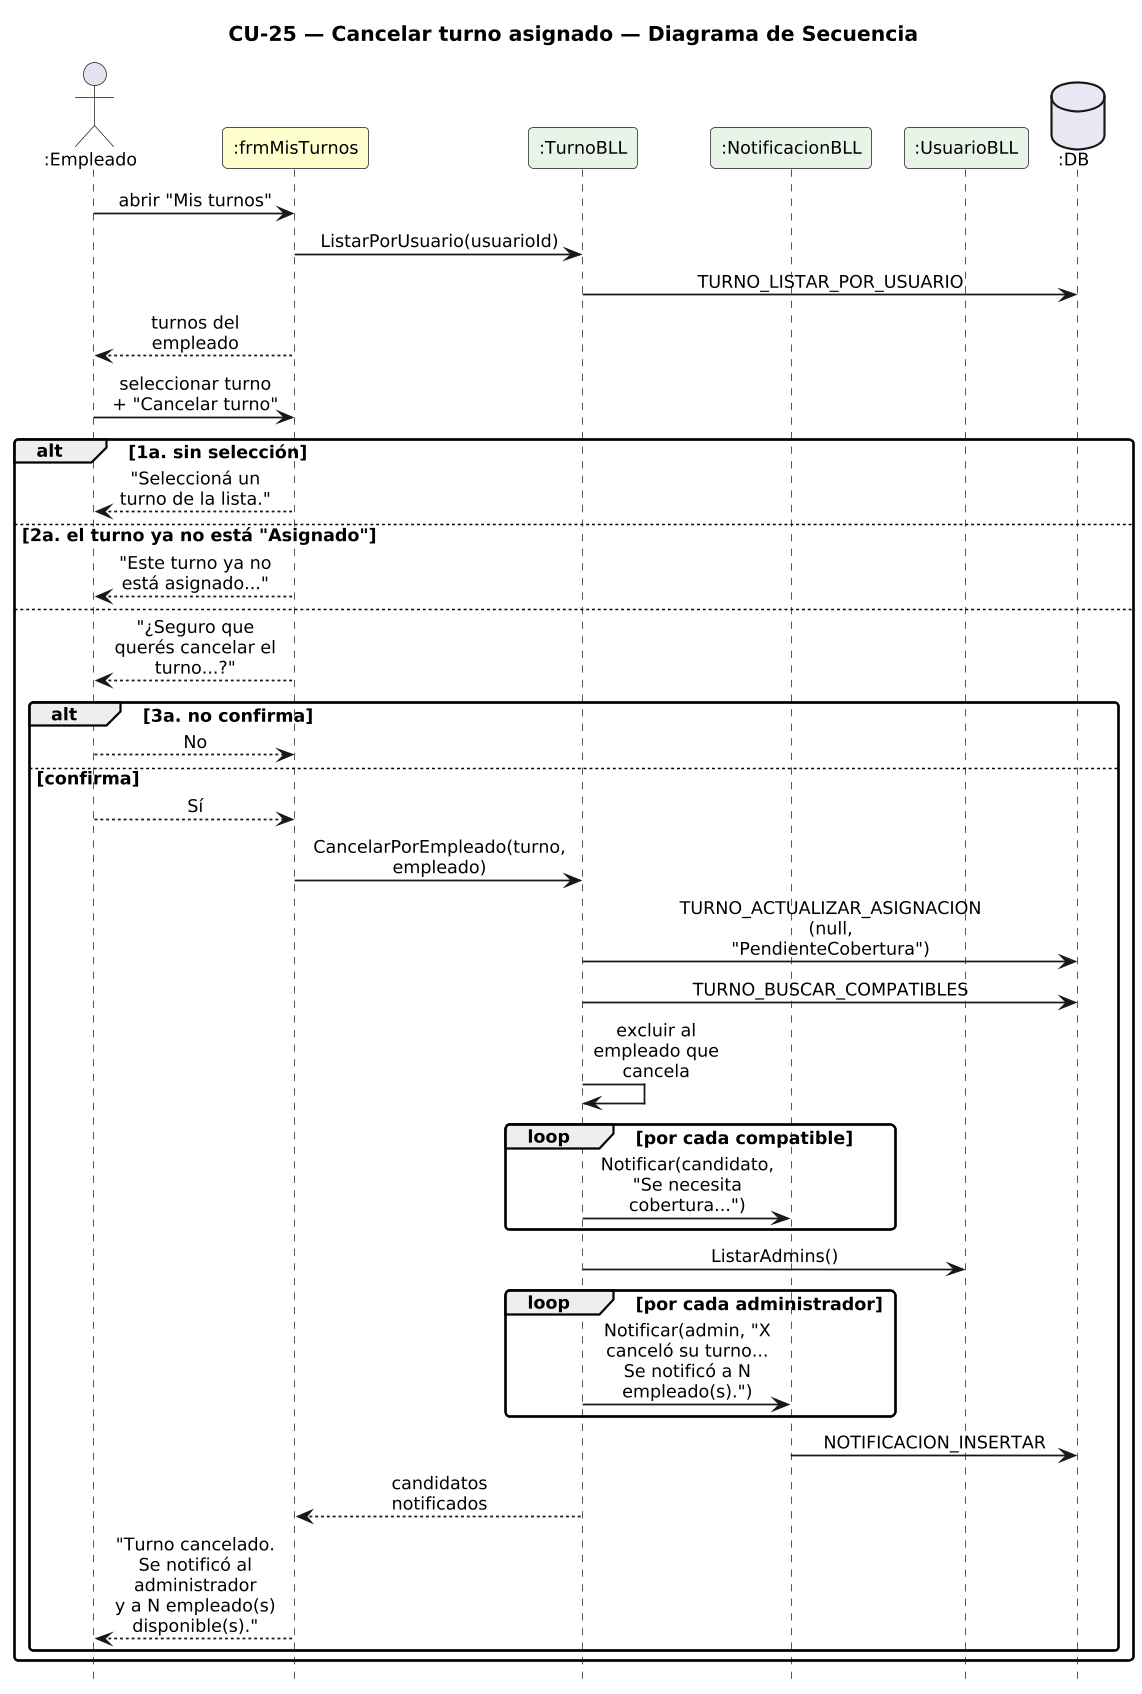
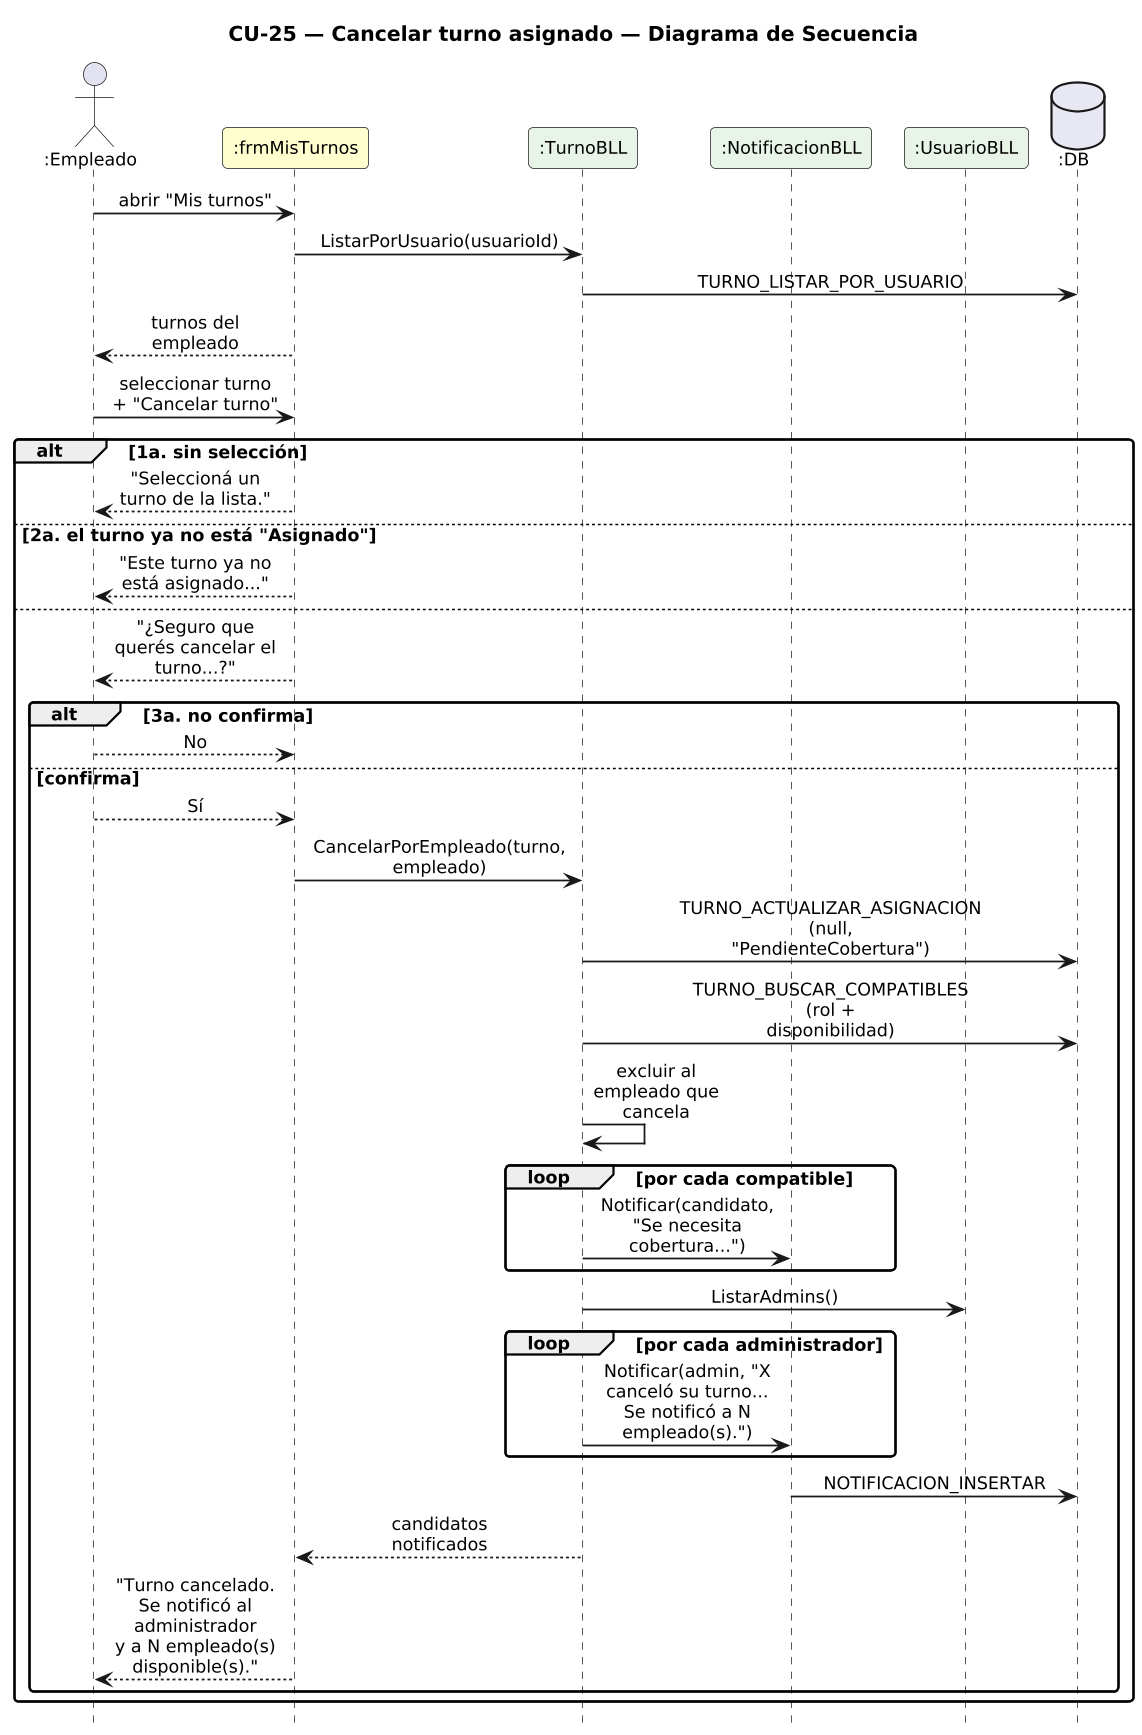
Grilla según disponibilidad, alertas sin duplicar y avisos de mantenimiento
- TURNO_BUSCAR_COMPATIBLES solo devuelve empleados que declararon
  disponibilidad para la franja en la semana de la grilla (las fechas se
  comparan por su lunes, así funciona aunque la grilla no empiece lunes).
- ALERTA_INSERTAR no crea otra alerta si el equipo ya tiene una abierta
  (Pendiente, Autorizada o Coordinada). Al cerrar un mantenimiento sin
  repuesto pendiente, la alerta pasa a "Resuelta".
- NOTIFICACION.GRILLA_ID admite NULL para avisos que no son de una grilla.
  Registrar uso de un equipo sin nivel crítico notifica a los
  administradores (una vez por día) y registrar un informe de
  mantenimiento también, como ya prometían los mensajes de pantalla.
- Diagramas de secuencia CU-21b, 23, 25, 27, 30 y 31 actualizados.

Claude-Session: https://claude.ai/code/session_01U6ipKj1ZBj4vwpEUSthucD

diff --git a/DAL/NotificacionDAL.cs b/DAL/NotificacionDAL.cs
@@ -14,7 +14,7 @@ namespace DAL
         {
             List<SqlParameter> parametros = new List<SqlParameter>
             {
-                _acceso.CrearParametro("@grilla_id", notificacion.GrillaId),
+                new SqlParameter("@grilla_id", SqlDbType.Int) { Value = (object)notificacion.GrillaId ?? DBNull.Value },
                 _acceso.CrearParametro("@usuario_id", notificacion.UsuarioId),
                 _acceso.CrearParametro("@mensaje", notificacion.Mensaje),
                 _acceso.CrearParametro("@estado", notificacion.Estado)
@@ -24,6 +24,22 @@ namespace DAL
                 _acceso.Abrir();
                 DataTable tabla = _acceso.Leer("NOTIFICACION_INSERTAR", parametros);
                 return Convert.ToInt32(tabla.Rows[0]["ID"]);
+            }
+            finally { _acceso.Cerrar(); }
+        }
+
+        public bool ExisteHoy(int usuarioId, string mensaje)
+        {
+            List<SqlParameter> parametros = new List<SqlParameter>
+            {
+                _acceso.CrearParametro("@usuario_id", usuarioId),
+                _acceso.CrearParametro("@mensaje", mensaje)
+            };
+            try
+            {
+                _acceso.Abrir();
+                DataTable tabla = _acceso.Leer("NOTIFICACION_EXISTE_HOY", parametros);
+                return Convert.ToInt32(tabla.Rows[0]["CANTIDAD"]) > 0;
             }
             finally { _acceso.Cerrar(); }
         }
@@ -44,7 +60,7 @@ namespace DAL
                     lista.Add(new BE.Notificacion
                     {
                         Id = Convert.ToInt32(fila["ID"]),
-                        GrillaId = Convert.ToInt32(fila["GRILLA_ID"]),
+                        GrillaId = fila["GRILLA_ID"] == DBNull.Value ? (int?)null : Convert.ToInt32(fila["GRILLA_ID"]),
                         UsuarioId = Convert.ToInt32(fila["USUARIO_ID"]),
                         Mensaje = fila["MENSAJE"].ToString(),
                         FechaEnvio = Convert.ToDateTime(fila["FECHA_ENVIO"]),

diff --git a/BLL/InformeMantenimientoBLL.cs b/BLL/InformeMantenimientoBLL.cs
@@ -7,6 +7,7 @@ namespace BLL
         private readonly DAL.InformeMantenimientoDAL _dal = new DAL.InformeMantenimientoDAL();
         private readonly AlertaRevisionBLL _alertaBLL = new AlertaRevisionBLL();
         private readonly EquipoBLL _equipoBLL = new EquipoBLL();
+        private readonly NotificacionBLL _notificacionBLL = new NotificacionBLL();
 
         public BE.InformeMantenimiento RegistrarInforme(BE.VisitaTecnica visita, int alertaId, string resultado, bool pendienteRepuesto)
         {
@@ -14,6 +15,13 @@ namespace BLL
 
             if (pendienteRepuesto)
                 _alertaBLL.MantenerActiva(alertaId);
+
+            BE.AlertaRevision alerta = _alertaBLL.ObtenerPorId(alertaId);
+            BE.Equipo equipo = alerta != null ? _equipoBLL.ObtenerPorId(alerta.EquipoId) : null;
+            string tecnico = SeguridadYServicios.SessionManager.getInstance().getUsuario()?.Usuario ?? "El técnico";
+            _notificacionBLL.NotificarAdministradores(
+                $"{tecnico} registró el informe de mantenimiento de '{equipo?.Nombre ?? "equipo"}'" +
+                (pendienteRepuesto ? " (falta un repuesto)" : "") + ". Está pendiente de cierre.");
 
             return _dal.Obtener(id);
         }
@@ -25,7 +33,11 @@ namespace BLL
             if (informe.PendienteRepuesto)
                 _equipoBLL.MarcarEnMantenimiento(informe.EquipoId);
             else
+            {
                 _equipoBLL.ReiniciarContador(informe.EquipoId);
+                if (informe.AlertaId > 0)
+                    _alertaBLL.MarcarResuelta(informe.AlertaId);
+            }
 
             _dal.MarcarCerrado(informe.Id);
         }

diff --git a/BLL/NotificacionBLL.cs b/BLL/NotificacionBLL.cs
@@ -6,7 +6,7 @@ namespace BLL
     {
         private readonly DAL.NotificacionDAL _dal = new DAL.NotificacionDAL();
 
-        public bool Notificar(BE.USUARIO usuario, int grillaId, string mensaje)
+        public bool Notificar(BE.USUARIO usuario, int? grillaId, string mensaje)
         {
             bool medioValido = !string.IsNullOrEmpty(usuario.Email) || !string.IsNullOrEmpty(usuario.Telefono);
 
@@ -20,6 +20,15 @@ namespace BLL
             notificacion.Id = _dal.Guardar(notificacion);
 
             return medioValido;
+        }
+
+        public void NotificarAdministradores(string mensaje, bool unaVezPorDia = false)
+        {
+            foreach (BE.USUARIO admin in new UsuarioBLL().ListarAdmins())
+            {
+                if (unaVezPorDia && _dal.ExisteHoy(admin.Id, mensaje)) continue;
+                Notificar(admin, null, mensaje);
+            }
         }
 
         public List<BE.Notificacion> ListarPorUsuario(BE.USUARIO usuario) => _dal.ListarPorUsuario(usuario.Id);

diff --git a/BLL/EquipoBLL.cs b/BLL/EquipoBLL.cs
@@ -7,6 +7,7 @@ namespace BLL
     {
         private readonly DAL.EquipoDAL _dal = new DAL.EquipoDAL();
         private readonly AlertaRevisionBLL _alertaBLL = new AlertaRevisionBLL();
+        private readonly NotificacionBLL _notificacionBLL = new NotificacionBLL();
 
         public BE.Equipo ObtenerPorId(int id) => _dal.ObtenerPorId(id);
 
@@ -20,7 +21,13 @@ namespace BLL
             _dal.RegistrarUsoLog(equipoId, incremento);
 
             if (!nivelUsoCritico.HasValue)
+            {
+                string nombre = _dal.ObtenerPorId(equipoId)?.Nombre ?? equipoId.ToString();
+                _notificacionBLL.NotificarAdministradores(
+                    $"El equipo '{nombre}' no tiene un nivel de uso crítico configurado. Definilo para que el sistema pueda generar alertas de revisión.",
+                    unaVezPorDia: true);
                 return false;
+            }
 
             if (usoAcumulado >= nivelUsoCritico.Value)
                 _alertaBLL.GenerarAlerta(equipoId);

diff --git a/BLL/AlertaRevisionBLL.cs b/BLL/AlertaRevisionBLL.cs
@@ -29,6 +29,11 @@ namespace BLL
             alerta.Estado = "Descartada";
         }
 
+        public void MarcarResuelta(int alertaId)
+        {
+            _dal.ActualizarEstado(alertaId, "Resuelta");
+        }
+
         public void MantenerActiva(int alertaId)
         {
             _dal.ActualizarEstado(alertaId, "Pendiente");

diff --git a/BE/Notificacion.cs b/BE/Notificacion.cs
@@ -5,7 +5,7 @@ namespace BE
     public class Notificacion
     {
         public int Id { get; set; }
-        public int GrillaId { get; set; }
+        public int? GrillaId { get; set; }
         public int UsuarioId { get; set; }
         public string Mensaje { get; set; }
         public DateTime FechaEnvio { get; set; }
